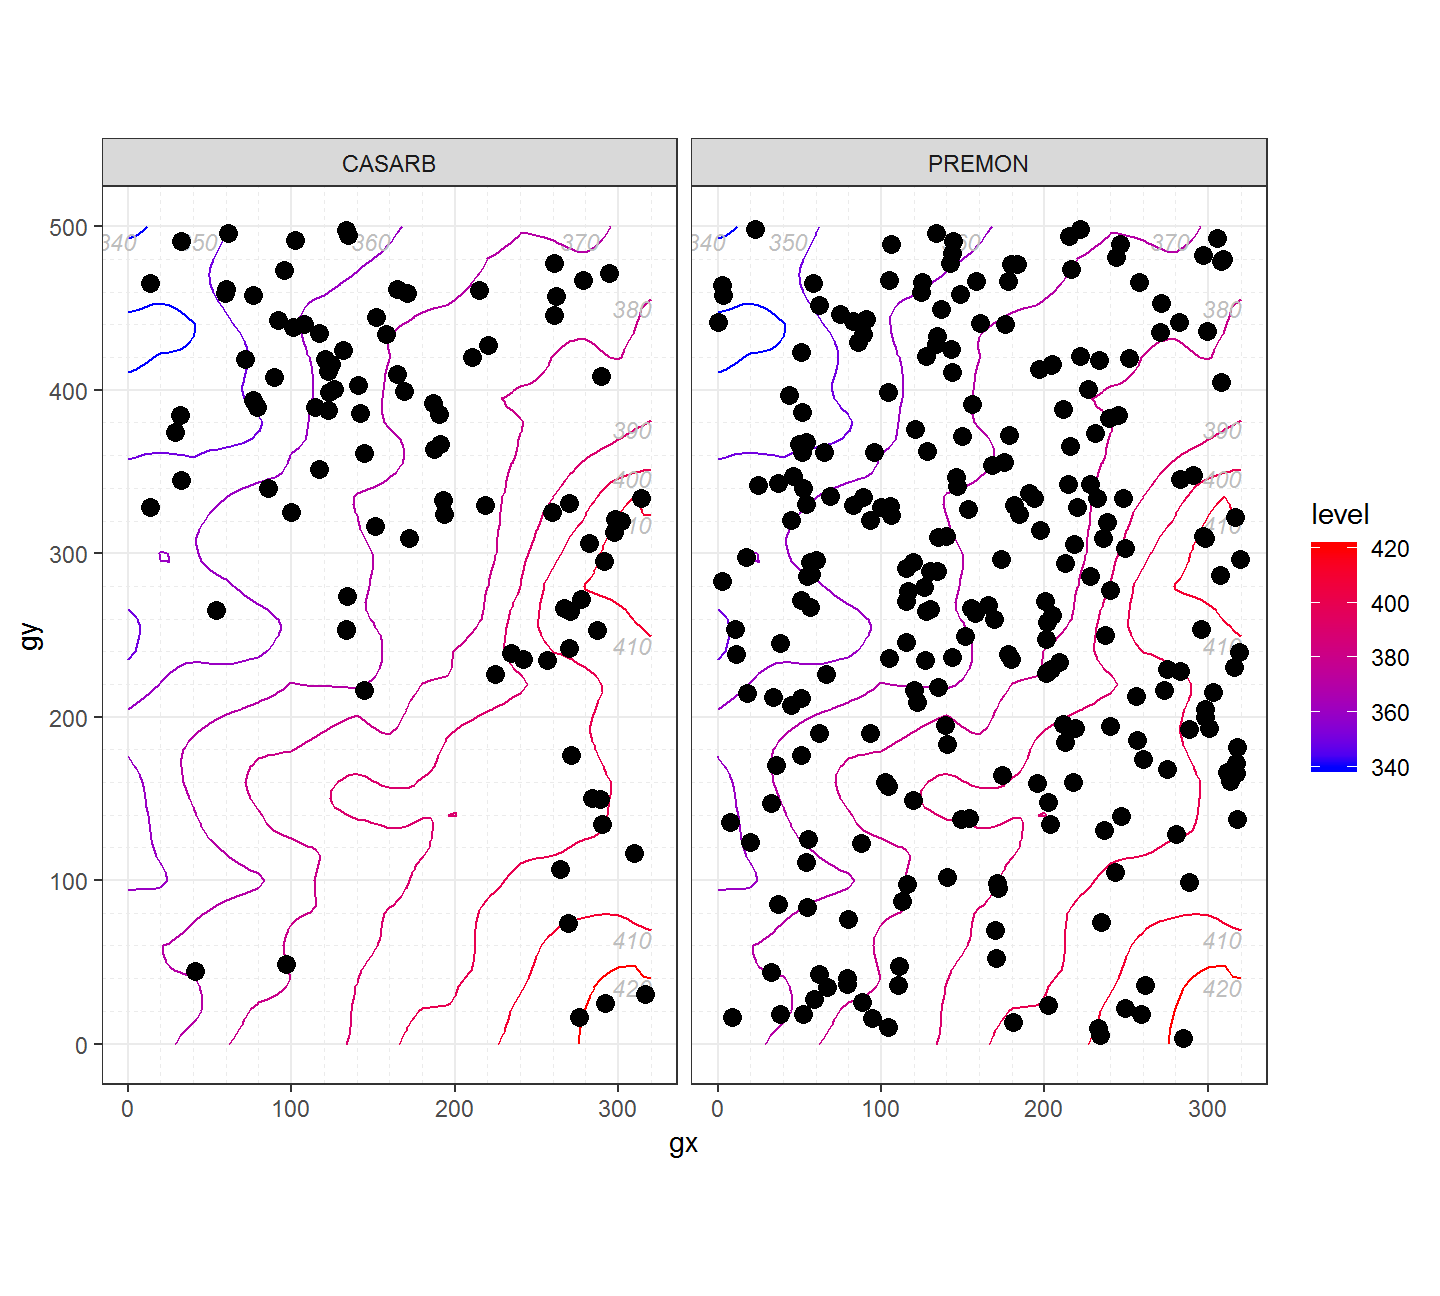
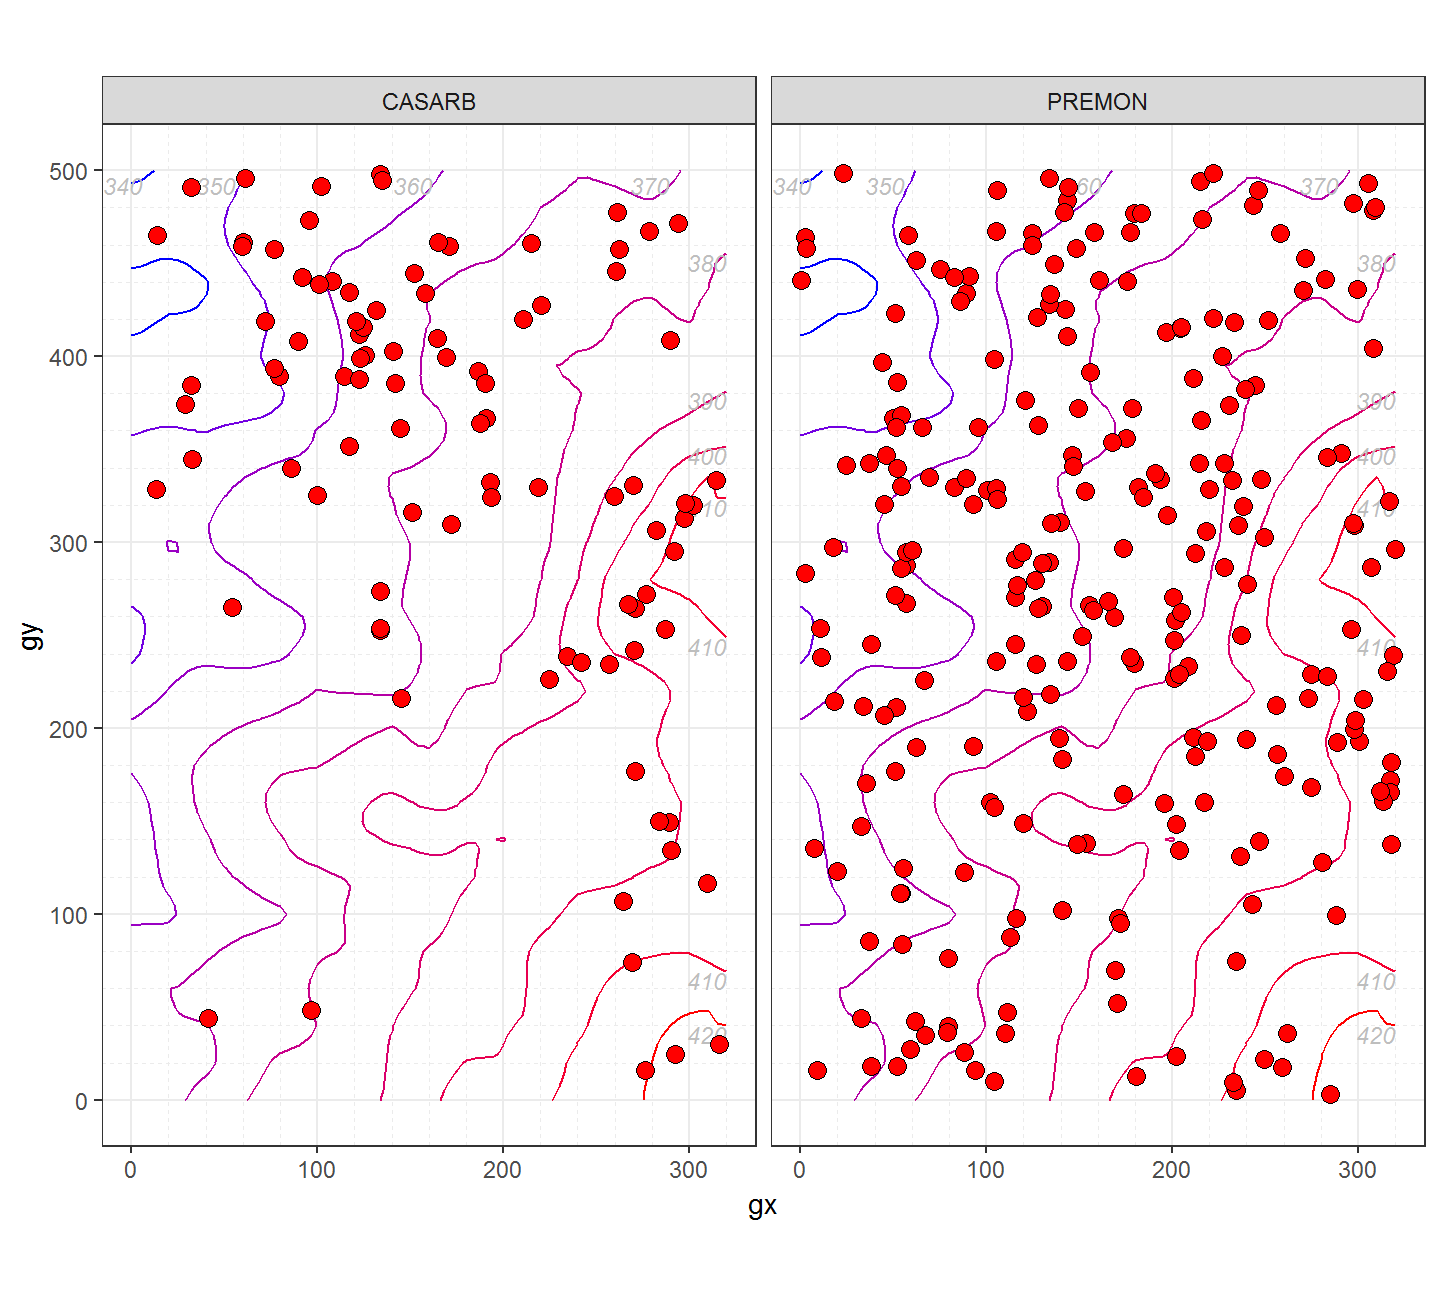
Tweak site.

diff --git a/docs/index.html b/docs/index.html
@@ -107,11 +107,9 @@ devtools::install_github("forestgeo/fgeo.map")</a></code></pre>
 <p><img src="reference/figures/README-unnamed-chunk-3-1.png" width="100%" style="display: block; margin: auto;"></p>
 <div class="sourceCode" id="cb6"><pre class="sourceCode r"><code class="sourceCode r"><a class="sourceLine" id="cb6-1" data-line-number="1"><span class="kw"><a href="http://www.rdocumentation.org/packages/ggplot2/topics/autoplot">autoplot</a></span>(<span class="kw"><a href="reference/sp_elev.html">sp_elev</a></span>(tree, elevation_list))</a></code></pre></div>
 <p><img src="reference/figures/README-unnamed-chunk-4-1.png" width="100%" style="display: block; margin: auto;"></p>
-<div class="sourceCode" id="cb7"><pre class="sourceCode r"><code class="sourceCode r"><a class="sourceLine" id="cb7-1" data-line-number="1"><span class="kw"><a href="http://www.rdocumentation.org/packages/ggplot2/topics/autoplot">autoplot</a></span>(<span class="kw"><a href="reference/sp_elev.html">sp_elev</a></span>(tree, elevation_list<span class="op">$</span>col))</a></code></pre></div>
+<div class="sourceCode" id="cb7"><pre class="sourceCode r"><code class="sourceCode r"><a class="sourceLine" id="cb7-1" data-line-number="1"><span class="co"># Customize</span></a>
+<a class="sourceLine" id="cb7-2" data-line-number="2"><span class="kw"><a href="http://www.rdocumentation.org/packages/ggplot2/topics/autoplot">autoplot</a></span>(<span class="kw"><a href="reference/sp_elev.html">sp_elev</a></span>(tree, elevation_list), <span class="dt">fill =</span> <span class="st">"red"</span>, <span class="dt">hide_color_legend =</span> <span class="ot">TRUE</span>)</a></code></pre></div>
 <p><img src="reference/figures/README-unnamed-chunk-5-1.png" width="100%" style="display: block; margin: auto;"></p>
-<div class="sourceCode" id="cb8"><pre class="sourceCode r"><code class="sourceCode r"><a class="sourceLine" id="cb8-1" data-line-number="1"><span class="co"># Customize</span></a>
-<a class="sourceLine" id="cb8-2" data-line-number="2"><span class="kw"><a href="http://www.rdocumentation.org/packages/ggplot2/topics/autoplot">autoplot</a></span>(<span class="kw"><a href="reference/sp_elev.html">sp_elev</a></span>(tree, elevation_list), <span class="dt">fill =</span> <span class="st">"red"</span>, <span class="dt">hide_color_legend =</span> <span class="ot">TRUE</span>)</a></code></pre></div>
-<p><img src="reference/figures/README-unnamed-chunk-6-1.png" width="100%" style="display: block; margin: auto;"></p>
 <p><a href="https://forestgeo.github.io/fgeo/articles/fgeo.html">Get started with <strong>fgeo</strong></a></p>
 </div>
 <div id="information" class="section level2">

diff --git a/docs/reference/index.html b/docs/reference/index.html
@@ -181,7 +181,7 @@
     </tbody><tbody>
       <tr>
         <th colspan="2">
-          <h2 id="section-ask-autoplot-to-plot-specific-variables" class="hasAnchor"><a href="#section-ask-autoplot-to-plot-specific-variables" class="anchor"></a>Ask `autoplot()` to plot specific variables</h2>
+          <h2 id="section-transform-data-to-autoplot-specific-variables" class="hasAnchor"><a href="#section-transform-data-to-autoplot-specific-variables" class="anchor"></a>Transform data to `autoplot()` specific variables</h2>
           <p class="section-desc"></p>
         </th>
       </tr>
@@ -190,19 +190,19 @@
         <td>
           <p><code><a href="elev.html">elev()</a></code> </p>
         </td>
-        <td><p>'Ask' <code>autoplot()</code> to plot the variable <code>elev</code>.</p></td>
+        <td><p>Transform data to <code>autoplot()</code> the variable <code>elev</code>.</p></td>
       </tr><tr>
         
         <td>
           <p><code><a href="sp.html">sp()</a></code> </p>
         </td>
-        <td><p>'Ask' <code>autoplot()</code> to plot the variable <code>sp</code>.</p></td>
+        <td><p>Transform data to <code>autoplot()</code> the variable <code>sp</code>.</p></td>
       </tr><tr>
         
         <td>
           <p><code><a href="sp_elev.html">sp_elev()</a></code> </p>
         </td>
-        <td><p>'Ask' <code>autoplot()</code> to plot the variables <code>sp</code> and <code>elev</code>.</p></td>
+        <td><p>Transform data to <code>autoplot()</code> the variables <code>sp</code> and <code>elev</code>.</p></td>
       </tr>
     </tbody><tbody>
       <tr>
@@ -227,7 +227,7 @@
     <ul class="nav nav-pills nav-stacked">
       <li><a href="#section-quickly-plot-different-classes-of-forestgeo-data">Quickly plot different classes of ForestGEO data</a></li>
       <li><a href="#section-create-a-list-of-plots-that-can-be-easily-printed-to-a-pdf-file">Create a list of plots that can be easily printed to a .pdf file</a></li>
-      <li><a href="#section-ask-autoplot-to-plot-specific-variables">Ask `autoplot()` to plot specific variables</a></li>
+      <li><a href="#section-transform-data-to-autoplot-specific-variables">Transform data to `autoplot()` specific variables</a></li>
       <li><a href="#section-datasets">Datasets</a></li>
     </ul>
   </div>

diff --git a/docs/reference/sp_elev.html b/docs/reference/sp_elev.html
@@ -6,7 +6,7 @@
 <meta http-equiv="X-UA-Compatible" content="IE=edge">
 <meta name="viewport" content="width=device-width, initial-scale=1.0">
 
-<title>'Ask' <code>autoplot()</code> to plot the variables <code>sp</code> and <code>elev</code>. — sp_elev • fgeo.map</title>
+<title>Transform data to <code>autoplot()</code> the variables <code>sp</code> and <code>elev</code>. — sp_elev • fgeo.map</title>
 
 <!-- jquery -->
 <script src="https://code.jquery.com/jquery-3.1.0.min.js" integrity="sha384-nrOSfDHtoPMzJHjVTdCopGqIqeYETSXhZDFyniQ8ZHcVy08QesyHcnOUpMpqnmWq" crossorigin="anonymous"></script>
@@ -30,9 +30,9 @@
 
 
 
-<meta property="og:title" content="'Ask' <code>autoplot()</code> to plot the variables <code>sp</code> and <code>elev</code>. — sp_elev" />
+<meta property="og:title" content="Transform data to <code>autoplot()</code> the variables <code>sp</code> and <code>elev</code>. — sp_elev" />
 
-<meta property="og:description" content="'Ask' autoplot() to plot the variables sp and elev." />
+<meta property="og:description" content="Transform data to autoplot() the variables sp and elev." />
 <meta name="twitter:card" content="summary" />
 
 
@@ -106,14 +106,14 @@
 <div class="row">
   <div class="col-md-9 contents">
     <div class="page-header">
-    <h1>'Ask' <code>autoplot()</code> to plot the variables <code>sp</code> and <code>elev</code>.</h1>
+    <h1>Transform data to <code>autoplot()</code> the variables <code>sp</code> and <code>elev</code>.</h1>
     <small class="dont-index">Source: <a href='https://github.com/forestgeo/fgeo.map/blob/master/R/sp_elev.R'><code>R/sp_elev.R</code></a></small>
     <div class="hidden name"><code>sp_elev.Rd</code></div>
     </div>
 
     <div class="ref-description">
     
-    <p>'Ask' <code><a href='http://www.rdocumentation.org/packages/ggplot2/topics/autoplot'>autoplot()</a></code> to plot the variables <code>sp</code> and <code>elev</code>.</p>
+    <p>Transform data to <code><a href='http://www.rdocumentation.org/packages/ggplot2/topics/autoplot'>autoplot()</a></code> the variables <code>sp</code> and <code>elev</code>.</p>
     
     </div>
 

diff --git a/docs/reference/elev.html b/docs/reference/elev.html
@@ -6,7 +6,7 @@
 <meta http-equiv="X-UA-Compatible" content="IE=edge">
 <meta name="viewport" content="width=device-width, initial-scale=1.0">
 
-<title>'Ask' <code>autoplot()</code> to plot the variable <code>elev</code>. — elev • fgeo.map</title>
+<title>Transform data to <code>autoplot()</code> the variable <code>elev</code>. — elev • fgeo.map</title>
 
 <!-- jquery -->
 <script src="https://code.jquery.com/jquery-3.1.0.min.js" integrity="sha384-nrOSfDHtoPMzJHjVTdCopGqIqeYETSXhZDFyniQ8ZHcVy08QesyHcnOUpMpqnmWq" crossorigin="anonymous"></script>
@@ -30,9 +30,9 @@
 
 
 
-<meta property="og:title" content="'Ask' <code>autoplot()</code> to plot the variable <code>elev</code>. — elev" />
+<meta property="og:title" content="Transform data to <code>autoplot()</code> the variable <code>elev</code>. — elev" />
 
-<meta property="og:description" content="'Ask' autoplot() to plot the variable elev." />
+<meta property="og:description" content="Transform data to autoplot() the variable elev." />
 <meta name="twitter:card" content="summary" />
 
 
@@ -106,14 +106,14 @@
 <div class="row">
   <div class="col-md-9 contents">
     <div class="page-header">
-    <h1>'Ask' <code>autoplot()</code> to plot the variable <code>elev</code>.</h1>
+    <h1>Transform data to <code>autoplot()</code> the variable <code>elev</code>.</h1>
     <small class="dont-index">Source: <a href='https://github.com/forestgeo/fgeo.map/blob/master/R/sp_elev.R'><code>R/sp_elev.R</code></a></small>
     <div class="hidden name"><code>elev.Rd</code></div>
     </div>
 
     <div class="ref-description">
     
-    <p>'Ask' <code><a href='http://www.rdocumentation.org/packages/ggplot2/topics/autoplot'>autoplot()</a></code> to plot the variable <code>elev</code>.</p>
+    <p>Transform data to <code><a href='http://www.rdocumentation.org/packages/ggplot2/topics/autoplot'>autoplot()</a></code> the variable <code>elev</code>.</p>
     
     </div>
 

diff --git a/docs/reference/sp.html b/docs/reference/sp.html
@@ -6,7 +6,7 @@
 <meta http-equiv="X-UA-Compatible" content="IE=edge">
 <meta name="viewport" content="width=device-width, initial-scale=1.0">
 
-<title>'Ask' <code>autoplot()</code> to plot the variable <code>sp</code>. — sp • fgeo.map</title>
+<title>Transform data to <code>autoplot()</code> the variable <code>sp</code>. — sp • fgeo.map</title>
 
 <!-- jquery -->
 <script src="https://code.jquery.com/jquery-3.1.0.min.js" integrity="sha384-nrOSfDHtoPMzJHjVTdCopGqIqeYETSXhZDFyniQ8ZHcVy08QesyHcnOUpMpqnmWq" crossorigin="anonymous"></script>
@@ -30,9 +30,9 @@
 
 
 
-<meta property="og:title" content="'Ask' <code>autoplot()</code> to plot the variable <code>sp</code>. — sp" />
+<meta property="og:title" content="Transform data to <code>autoplot()</code> the variable <code>sp</code>. — sp" />
 
-<meta property="og:description" content="'Ask' autoplot() to plot the variable sp." />
+<meta property="og:description" content="Transform data to autoplot() the variable sp." />
 <meta name="twitter:card" content="summary" />
 
 
@@ -106,14 +106,14 @@
 <div class="row">
   <div class="col-md-9 contents">
     <div class="page-header">
-    <h1>'Ask' <code>autoplot()</code> to plot the variable <code>sp</code>.</h1>
+    <h1>Transform data to <code>autoplot()</code> the variable <code>sp</code>.</h1>
     <small class="dont-index">Source: <a href='https://github.com/forestgeo/fgeo.map/blob/master/R/sp_elev.R'><code>R/sp_elev.R</code></a></small>
     <div class="hidden name"><code>sp.Rd</code></div>
     </div>
 
     <div class="ref-description">
     
-    <p>'Ask' <code><a href='http://www.rdocumentation.org/packages/ggplot2/topics/autoplot'>autoplot()</a></code> to plot the variable <code>sp</code>.</p>
+    <p>Transform data to <code><a href='http://www.rdocumentation.org/packages/ggplot2/topics/autoplot'>autoplot()</a></code> the variable <code>sp</code>.</p>
     
     </div>
 

diff --git a/README.md b/README.md
@@ -59,17 +59,11 @@ autoplot(sp_elev(tree, elevation_list))
 <img src="man/figures/README-unnamed-chunk-4-1.png" width="100%" style="display: block; margin: auto;" />
 
 ``` r
-autoplot(sp_elev(tree, elevation_list$col))
-```
-
-<img src="man/figures/README-unnamed-chunk-5-1.png" width="100%" style="display: block; margin: auto;" />
-
-``` r
 # Customize
 autoplot(sp_elev(tree, elevation_list), fill = "red", hide_color_legend = TRUE)
 ```
 
-<img src="man/figures/README-unnamed-chunk-6-1.png" width="100%" style="display: block; margin: auto;" />
+<img src="man/figures/README-unnamed-chunk-5-1.png" width="100%" style="display: block; margin: auto;" />
 
 [Get started with
 **fgeo**](https://forestgeo.github.io/fgeo/articles/fgeo.html)
